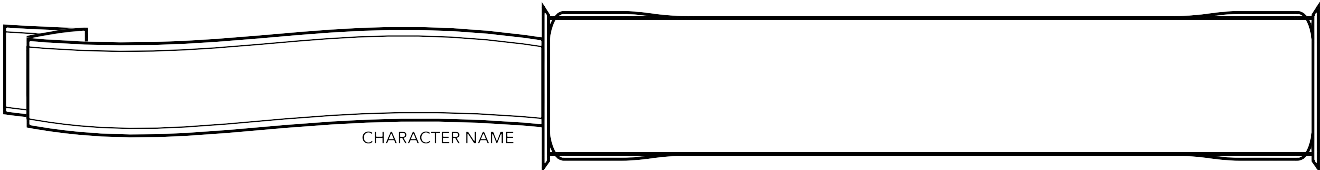
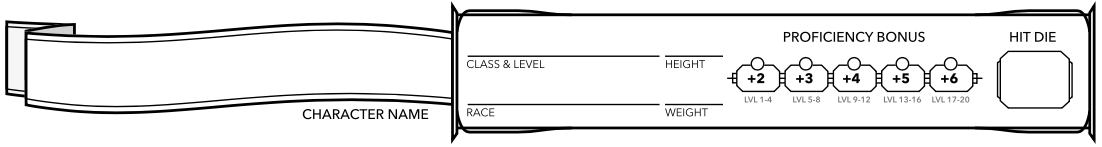
update

Changed region(s): [[0.0, 0.0, 1.0, 1.0], [0.7096, 0.2177, 0.8639, 0.2993], [0.8947, 0.2177, 0.9564, 0.2993]]

diff --git a/styles.css b/styles.css
@@ -18,6 +18,79 @@
   font-size: 16px;
 }
 
+input:focus
+{
+  outline: none;
+  border: none;
+}
+
+input[type=number],input[type=text]
+{
+  background-color:  transparent;
+  border: none;
+  width: 98%;
+  font-size: 20px;
+  height: 50px;
+  text-align: left;
+}
+
+/*
+# # # # # # # # # # # # # # # # # # # # # # # # # # # # # # # # # # # # # # # # # # # # # # 
+
+HEADER 1st SECTIONN STATS SAVES COMBAT 
+
+# # # # # # # # # # # # # # # # # # # # # # # # # # # # # # # # # # # # # # # # # # # # # # 
+*/
+
+.sheet-grid-container
+{
+  padding: 20px 10px 29px 40px;
+  min-height: 172px;
+  margin-bottom: 15px;
+  display: grid;
+  grid-template-columns: 38% 60%;
+  justify-content: start;
+  column-gap: 20px;
+  background: url("image/header.png");
+  background-repeat: no-repeat;
+  background-size: 100% 100%;
+}
+
+.sheet-grid-container div:first-child
+{
+  display: flex;
+  align-items: center;
+}
+
+.sheet-grid-container div:last-child
+{
+  display: grid;
+  grid-template-columns: 41% 39% 14%;
+  justify-content: start;
+  column-gap: 10px;
+}
+.sheet-grid-container div:last-child div
+{
+  height: 100%;
+  display: flex;
+  align-items: center;
+}
+
+
+.sheet-grid-container div:last-child div:first-child
+{
+  display: grid;
+  gap: 0px;
+  grid-template-columns: 76% 24%;
+}
+
+.sheet-grid-container div:last-child div:last-child
+{
+  padding-top: 25px;
+  padding-left: 10px;
+  padding-right: 10px;
+}
+
 /*
 # # # # # # # # # # # # # # # # # # # # # # # # # # # # # # # # # # # # # # # # # # # # # # 
 
@@ -34,53 +107,106 @@ HEADER 2ND SECTIONN STATS SAVES COMBAT
   gap: 30px;
   grid-template-columns: 42% 55%;
   height: 230px;
-  background: url('image/Screenshot_2023-12-19_132856-removebg-preview.png');
-  background-repeat: no-repeat;
-}
-
-.sheet-header2 div:first-child
-{
-  height: 100%;
-  text-align: center;
-  display: grid;
-  grid-template-columns: repeat(5, 1fr);
-  column-gap: 15px;
-  min-width: 50px;
-}
-
-.sheet-header2 div:first-child div div:first-child
-{
-  background: url("image/stas.png");
+  background: url("image/header2.png");
   background-repeat: no-repeat;
   background-size: 100% 100%;
-  height: 100px;
-
 }
 
-.sheet-header2 div:first-child div input 
+.sheet-header2 div
 {
-  font-size: 12px;
-  border: none;
-  width: 50px;
-  margin: auto;
-  background-color: rgba(100,100,100,0.2);
-  text-align: center;
-  outline: none;
+  border: 1px solid transparent;
+}
+
+.sheet-header2 div div:first-child
+{
+  margin-top: 80px;
   height: 30px;
-}
-
-.sheet-header2 div:last-child
-{
-  background: url("image/combat.png");
-  background-repeat: no-repeat;
-  background-size: 100% 100%;
-  height: 100%;
+  display: flex;
+  justify-content: space-around;
   text-align: center;
-  display: grid;
-  grid-template-columns: auto auto auto auto;
 
-
+  input
+  {
+  text-align: center;
+  width: 26px;
+  height: auto;
+  font-size: 14px;
+  }
 }
+
+
+.sheet-header2 div div:last-child
+{
+  margin-top: 40px;
+  height: 60px;
+  display: grid;
+  grid-template-columns: auto auto auto;
+  column-gap: 60px;
+
+  input
+  {
+  text-align: center;
+  font-size: 30px;
+  }
+}
+
+.sheet-header2 div:last-child div:first-child
+{
+  margin-top: 35px;
+  height: 53px;
+  text-align: center;
+  margin-left: 170px;
+  margin-right: 45px;
+
+  input
+  {
+  text-align: center;
+  width: 45px;
+  height: auto;
+  font-size: 30px;
+  }
+}
+
+.sheet-header2 div:last-child div:nth-child(2)
+{
+  display: flex;
+  justify-content: center;
+  align-items: center;
+  margin-top: 22px;
+  margin-left: 60px;
+  height: 33px;
+  width: 55px;
+  text-align: center;
+  padding: 15px;
+
+  input
+  {
+  font-size: 12px;
+  }
+}
+
+.sheet-header2 div:last-child div:last-child
+{
+  display: block;
+  justify-content: space-around;
+  align-items: center;
+  margin-top: 3px;
+  margin-left: 220px;
+  height: 33px;
+  width: 175px;
+
+  input[type="radio"]
+  {
+  font-size: 12px;
+  display:inline-block;
+  height: 15px;
+  width: 15px;
+  margin-right:12px;
+
+  }
+}
+
+
 
 
 /*
@@ -164,3 +290,41 @@ column-gap: 5px;
 .sheet-pc-text{
   padding-left: 50px;
 }
+
+
+
+/*
+# # # # # # # # # # # # # # # # # # # # # # # # # # # # # # # # # # # # # # # # # # # # # # 
+ LAST SECTION
+# # # # # # # # # # # # # # # # # # # # # # # # # # # # # # # # # # # # # # # # # # # # # # 
+*/
+
+.sheet-lastblock 
+{
+  padding: 10px 20px;
+  padding-top: 20px;
+  min-height: 430px;
+  margin-top: 15px;
+  display: grid;
+  grid-template-columns: auto auto auto;
+  justify-content: start;
+  overflow: auto;
+  column-gap: 20px;
+  background: url("image/lastblock.png");
+  background-repeat: no-repeat;
+  background-size: 100.5% 101%;
+  }
+
+  .sheet-lastblock textarea
+  {
+    background-color: transparent;
+    width: 250px;
+    line-height: 2.0;
+    border: none;
+  }
+  .sheet-lastblock textarea:last-child
+  {
+    margin-left: 50px;
+    width: 330px;
+    border: none;
+  }

diff --git a/index.html b/index.html
@@ -2,58 +2,76 @@
 <html lang="en">
 
 <head>
-
     <title>roll20</title>
     <meta charset="UTF-8">
     <meta name="viewport" content="width=device-width, initial-scale=1.0">
     <link rel="stylesheet" href="styles.css">
-
 </head>
 
 <body class="charsheet">
-
-
+    
     <div class="sheet-grid-container">
-        <div class="sheet-section-pc-header-name" style="border:2px solid black">
-            <input type="text" name="attr_character_name" title="@{character_name}">
-        </div>
-        <div class="sheet-section-pc-header-details-panel" style="border:2px solid black">
-            <div>
-                <label>Class &amp; Level</label>
-                <input type="text" name="attr_class_display" title="@{class_display}">
+        <div>
+            <input type="text">
+        </div> 
+
+        <div>
+
+            <div> 
+                <input type="text">  
+                <input type="text"> 
+                <input type="text">  
+                <input type="text"> 
             </div>
-            <div>
-                <label>Background</label>
-                <input type="text" name="attr_background" title="@{background}">
+
+            <div> 
+
             </div>
-            <div>
-                <label>Race</label>
-                <input type="text" name="attr_race_display" title="@{race_display}">
+
+            <div>  <input type="text"> 
             </div>
-            <div>
-                <label>Alignment</label>
-                <input type="text" name="attr_alignment" title="@{alignment}">
-            </div>
-        </div>
+            
+        </div> 
     </div>
+
+
 
     <!-- Header 2 -->
     <div class="sheet-header2">
         <div>
-            <div> <div>
-                <input type="number">
+            <div>
+                    <input type="text">
+                    <input type="text">
+                    <input type="text">
+                    <input type="text">
+                    <input type="text">
             </div>
-            <div><h6>ARCANA</h6>
-                <p>INT</p>
-            </div></div>
-            <div> <input type="number"></div>
-            <div> <input type="number"></div>
-            <div> <input type="number"></div>
-            <div> <input type="number"></div>
+            <div>
+                <input type="text">
+                <input type="text">
+                <input type="text">
+            </div>
         </div>
+
         <div>
-               
+            <div>
+                <input type="text">
+                <input type="text">
+                <div>&nbsp;&nbsp; &nbsp;  </div>
+                <input type="text">
+                <input type="text">
+            </div>
+            
+            <div>
+                <input type="text">
+            </div>
+
+            <div>
+                <input type="radio" name="exh"><input type="radio" name="exh"><input type="radio" name="exh"><input type="radio" name="exh"><input type="radio" name="exh">
+            </div>
+          
         </div>
+
     </div>
     
 
@@ -153,7 +171,13 @@
     </div>
     <!-- SKILLS-end -->
 
+    <!-- last block -->
 
+    <div class="sheet-lastblock">
+        <textarea></textarea>
+        <textarea></textarea>
+        <textarea></textarea>
+    </div>
     <div class="sheet-text-container">
         <div class="sheet-text-pc">
             <p class="text"><b>Action Points (AP).</b> In combat,
@@ -191,9 +215,7 @@
                     the way
                     and become the new target of the attack. Cou enter their square and move them to an adjacent
                     square of your choice.</li>
-
             </ul>
-
         </div>
     </div>
 
